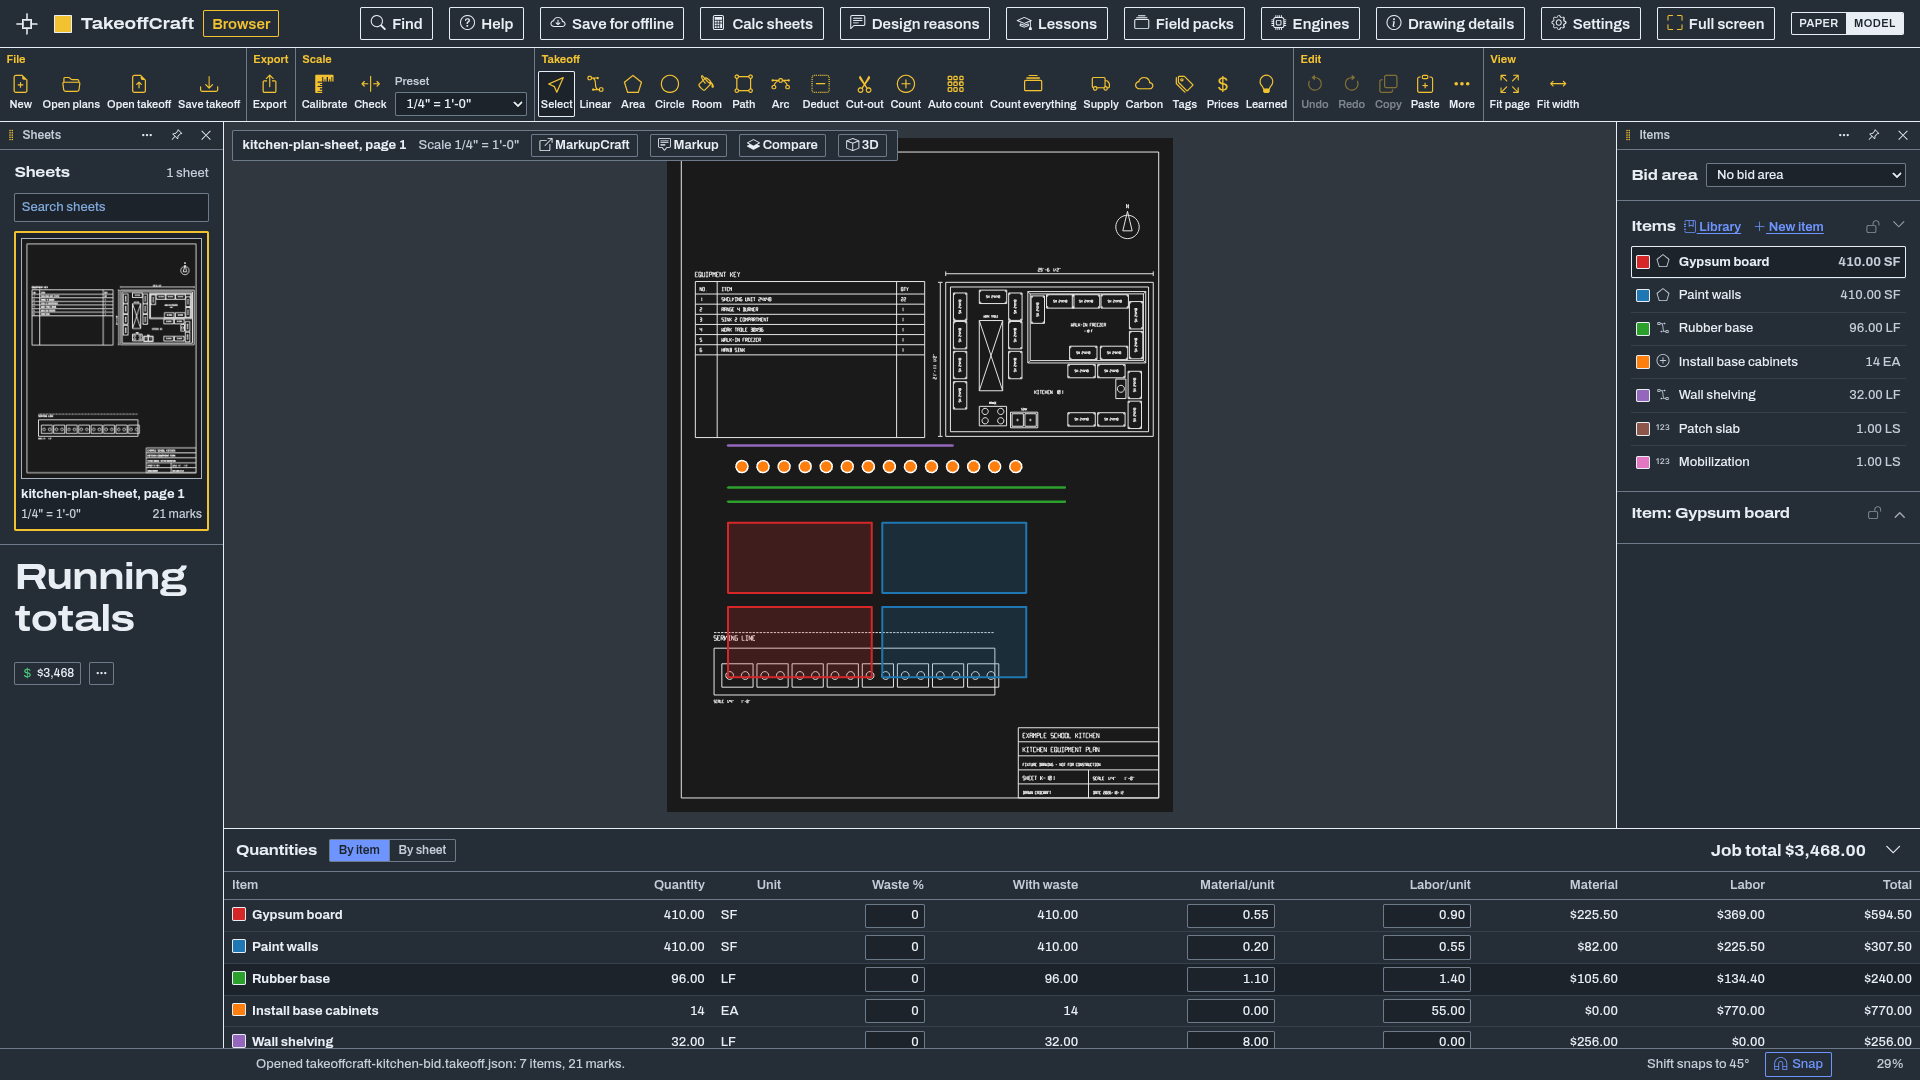
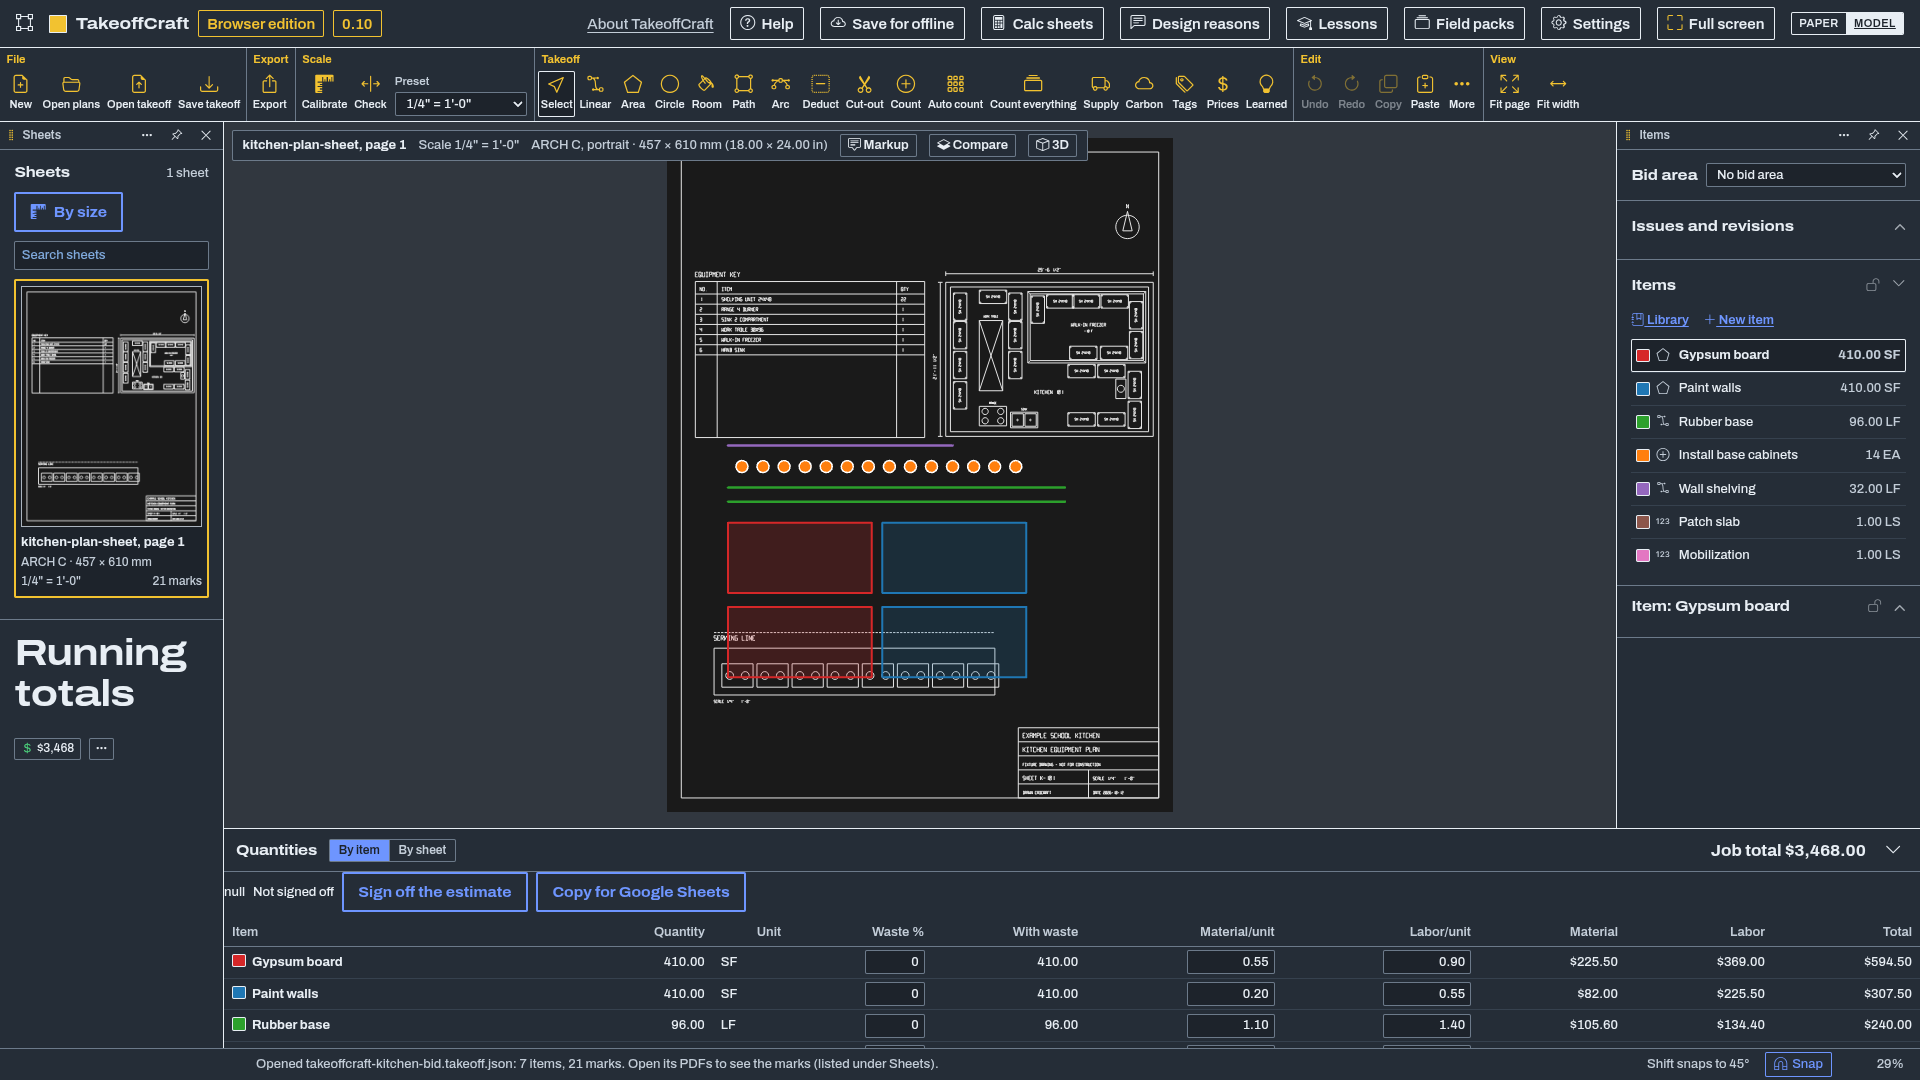
README: 0.10 screenshots (the released 0.10 browser edition, dark theme)

diff --git a/README.md b/README.md
@@ -6,9 +6,9 @@ Measure the drawings. Count the work. Price the job.
 
 **[Website](https://getcadcraft.com/apps/takeoffcraft) | [Use it in your browser](https://getcadcraft.com/use/takeoffcraft) | [Download CadCraft Studio](https://getcadcraft.com/download#studio) | [Help and tutorials](https://getcadcraft.com/tutorials/takeoffcraft) | [News](https://getcadcraft.com/news) | [Suggest a feature](https://getcadcraft.com/suggest)**
 
-[![TakeoffCraft 0.9](screenshots/paper.png)](https://getcadcraft.com/use/takeoffcraft)
+[![TakeoffCraft 0.10](screenshots/paper.png)](https://getcadcraft.com/use/takeoffcraft)
 
-<sub>TakeoffCraft 0.9 in the browser, dark theme. [A second view](screenshots/model.png).</sub>
+<sub>TakeoffCraft 0.10 in the browser, dark theme. [A second view](screenshots/model.png).</sub>
 
 TakeoffCraft is the quantity takeoff & estimating app in the [CadCraft](https://getcadcraft.com) family: Calibrated linear, area and count takeoff from PDF plans, with assemblies, cost columns and quantities that export.
 
